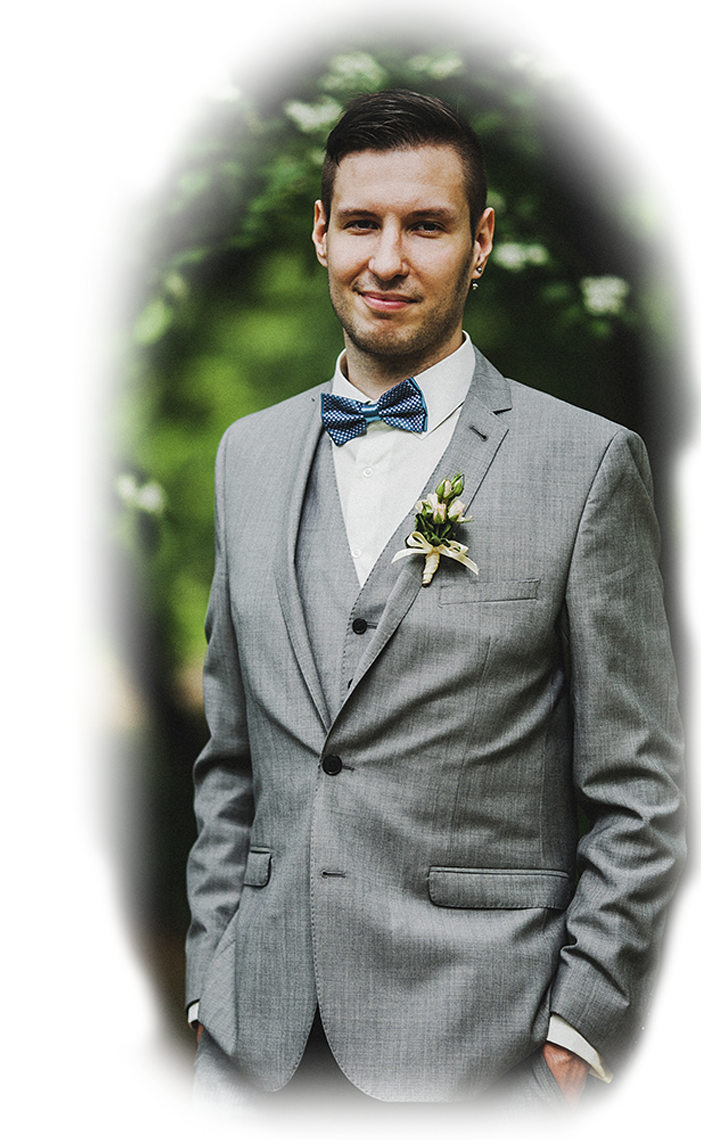
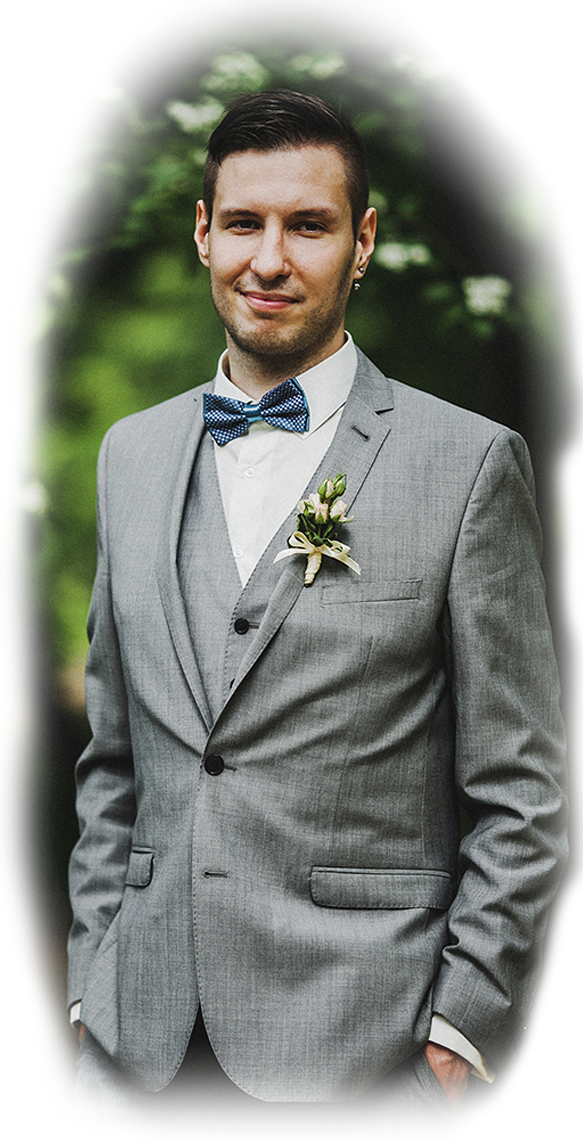
refactor: add adaptive changes to various resolutions

diff --git a/index.html b/index.html
@@ -17,7 +17,7 @@
             <li class="header_nav__item"><a class="active" href="#home" onclick="myFunction(event)">home()</a></li>
             <li class="header_nav__item"><a href="#skills" onclick="myFunction(event)">skills()</a></li>
             <li class="header_nav__item"><a href="#projects" onclick="myFunction(event)">projects()</a></li>
-            <li class="header_nav__item"><a href="#contacts" onclick="myFunction(event)">contacts()</a></li>
+            <!-- <li class="header_nav__item"><a href="#contacts" onclick="myFunction(event)">contacts()</a></li> -->
           </ul>
         </nav>
       </header>
@@ -104,13 +104,7 @@
                   };
                 </code>
               </p>
-              <p>
-                <code>
-                  let maxRedigit = function(num) { <br />
-                  return num &#x26;lt 100 || num &#x3E; 999 ? null : +num.toString().split(&#x22;&#x22;).map((x) =&#x3E; +x).sort((a, b) =&#x3E; b - a).join(&#x27;&#x27;); <br />
-                  };
-                </code>
-              </p>
+              
             </div>
           </div>
           <div class="english__wrapper">

diff --git a/style.css b/style.css
@@ -65,15 +65,15 @@ a {
 }
 
 .header_nav__item {
-  padding-right: 40px;  
+  padding-right: 40px;
   font-weight: 600;
 }
 
-.header_nav__item :hover { 
+.header_nav__item :hover {
   color: rgb(162, 0, 255);
 }
 
-.active { 
+.active {
   color: rgb(162, 0, 255);
 }
 
@@ -241,13 +241,22 @@ a {
   }
 }
 
-@media (max-height: 700px) {
+@media (max-width: 1240px) {
+  .header_nav__list {
+    margin: 0 20px;
+  }
+}
+
+@media (max-height: 900px) {
   .section {
     height: max-content;
   }
   .scroll-up,
   .scroll-down {
     display: none;
+  }
+  .home__image {
+
   }
 }
 
@@ -263,7 +272,13 @@ a {
 
 @media (max-width: 796px) {
   .home__image {
-    display: none;
+    max-width: 320px;
+    margin: 0 auto;
+    left: -100px;
+  }
+  .home__wrapper {
+    display: flex;
+    flex-direction: column;
   }
 }
 
